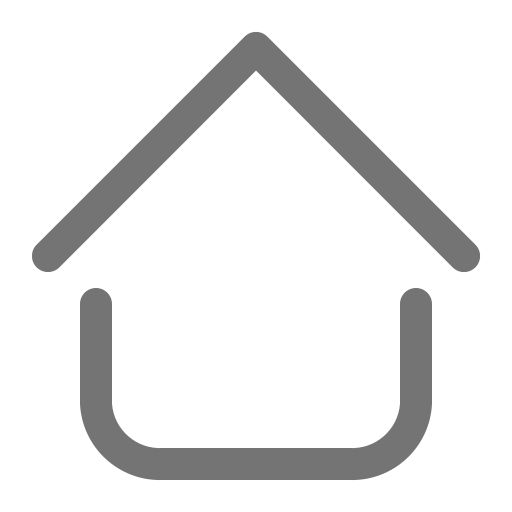
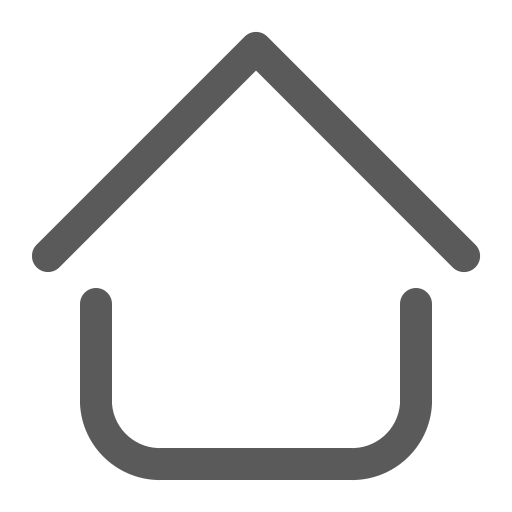
dalšie úpravy ikon a odkazu na ikony

Changed region(s): [[0.1562, 0.5625, 0.8438, 0.9375], [0.0625, 0.0625, 0.9375, 0.5312]]

diff --git a/src/components/SideNav.js b/src/components/SideNav.js
@@ -22,7 +22,7 @@ const SideNav = () => {
               <div className="musicIcon icon"></div> Mixes
             </li>
             <li>
-              <div className="homeIcon icon"></div>Links
+              <div className="linksIconNav icon"></div>Links
             </li>
           </ul>
         </nav>
@@ -36,7 +36,7 @@ const SideNav = () => {
         <div className="year">
           <p>2024</p>
           <a href="https://preview.themeforest.net/item/watson-vcard-resume-cv-portfolio-template/full_screen_preview/22526409" target="_blank">Template</a> <br />
-          <a href="https://www.flaticon.com/">Icons</a>
+          <a href="https://www.flaticon.com/" target="_blank">Icons</a>
         </div>
       </div>
     </div>

diff --git a/src/components/SideNav.css b/src/components/SideNav.css
@@ -74,19 +74,19 @@ nav ul li{
 }
 
 .homeIcon{
-    background-image: url(../../icons/home.png);
+    background-image: url(../../icons/home-grey.png);
 }
 
 .aboutIcon{
-    background-image: url(../../icons/aboutme.png);
+    background-image: url(../../icons/aboutme-grey.png);
 }
 
 .musicIcon{
-    background-image: url(../../icons/music.png);
+    background-image: url(../../icons/music-grey.png);
 }
 
 .linksIconNav{
-    background-image: url(../../icons/link.png);
+    background-image: url(../../icons/link-grey.png);
 }
 
 .icon{
